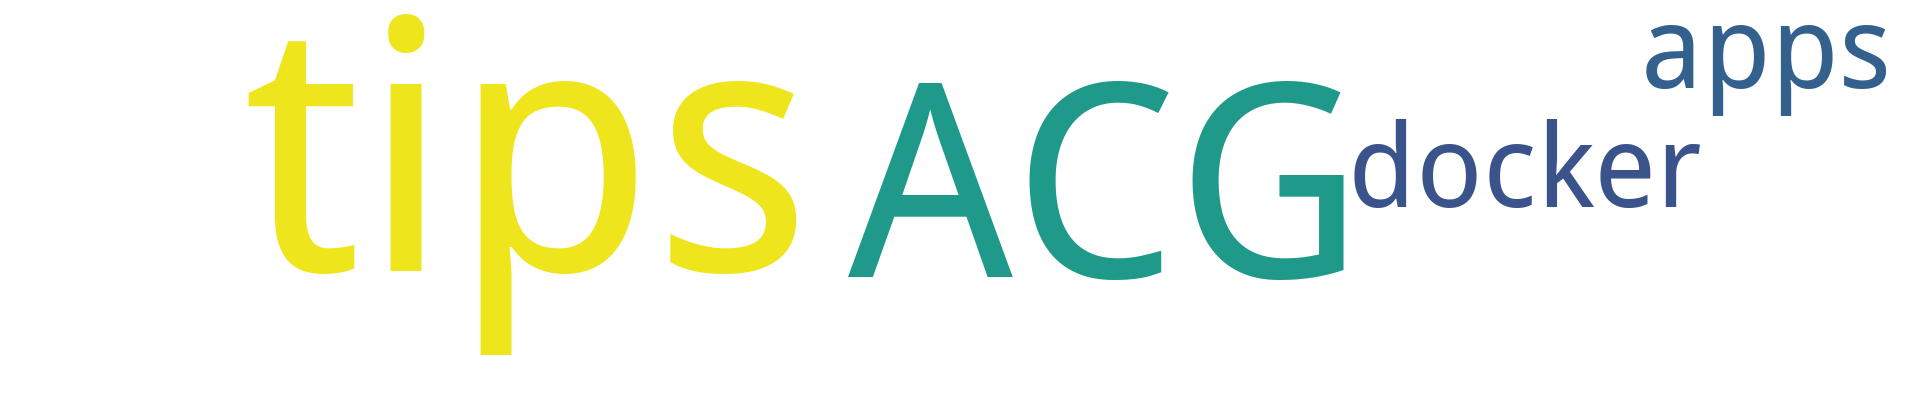
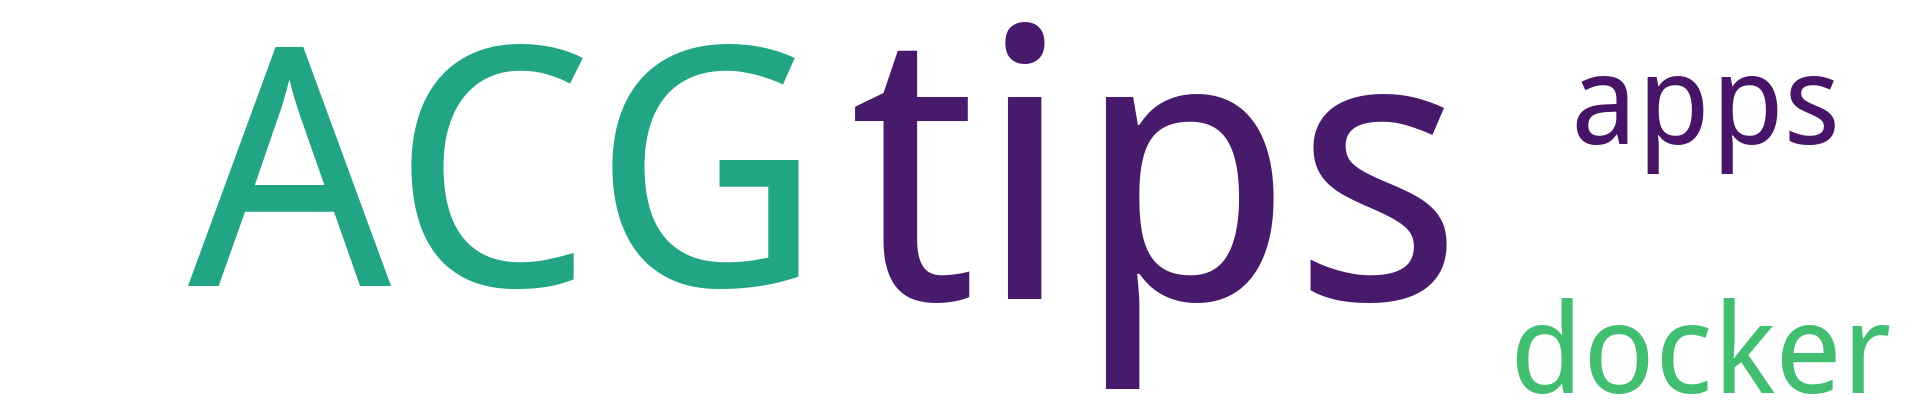
Update README.md with the latest commit timestamp, enhance article layout styling for improved readability with and without a table of contents, and replace word cloud images for visual consistency.

Changed region(s): [[0.0938, 0.03, 1.0, 0.99], [0.7812, 0.75, 1.0, 0.99]]

diff --git a/src/templates/static/css/base.css b/src/templates/static/css/base.css
@@ -287,8 +287,9 @@ body {
     opacity: 1;
 }
 
+/* 有目录时，限制内容宽度以提高可读性 */
 @media (min-width: 1024px) {
-    .article-content {
+    .article-layout:has(.toc-sidebar) .article-content {
         max-width: 700px;
         margin: 0 auto;
     }
@@ -417,9 +418,14 @@ body.dark-mode .theme-icon.moon-icon {
 .article-layout {
     display: flex;
     gap: 30px;
-    max-width: 1200px;
+    max-width: 1200px; /* 有目录时的宽度 */
     margin: 0 auto;
     padding: 30px;
+}
+
+/* 当没有目录侧边栏时，使用与首页一致的宽度 */
+.article-layout:not(:has(.toc-sidebar)) {
+    max-width: 800px;
 }
 
 .article-main {
@@ -428,6 +434,11 @@ body.dark-mode .theme-icon.moon-icon {
     background: var(--card-bg);
     padding: 30px;
     transition: background-color 0.3s ease;
+}
+
+/* 没有目录时，主内容区占满整个容器 */
+.article-layout:not(:has(.toc-sidebar)) .article-main {
+    max-width: 100%;
 }
 
 .toc-sidebar {

diff --git a/README.md b/README.md
@@ -1,7 +1,7 @@
 
 <p align='center'>
     <img src="https://badgen.net/github/issues/syaofoxsyaofox.github.io"/>
-    <img src="https://badgen.net/badge/last-commit/2025-10-14 21:45:46"/>
+    <img src="https://badgen.net/badge/last-commit/2025-10-14 22:36:59"/>
     <img src="https://badgen.net/github/forks/syaofoxsyaofox.github.io"/>
     <img src="https://badgen.net/github/stars/syaofoxsyaofox.github.io"/>
     <img src="https://badgen.net/github/watchers/syaofoxsyaofox.github.io"/>
@@ -29,8 +29,9 @@
 </details>
 
 <details open>
-<summary>ACG	[7篇]</summary>
+<summary>ACG	[8篇]</summary>
 
+- 2025-10-14 [《进击的巨人》到底讲了一个怎么样的故事？](https://github.com/syaofox/syaofox.github.io/issues/24) 
 - 2025-10-03 [三国战纪2：群雄争霸详细攻](https://github.com/syaofox/syaofox.github.io/issues/16) 
 - 2025-10-03 [拳皇系列的各代剧情都在讲什么](https://github.com/syaofox/syaofox.github.io/issues/15) 
 - 2025-10-03 [圣斗士星矢~黄金传说完结篇攻略](https://github.com/syaofox/syaofox.github.io/issues/14) 
